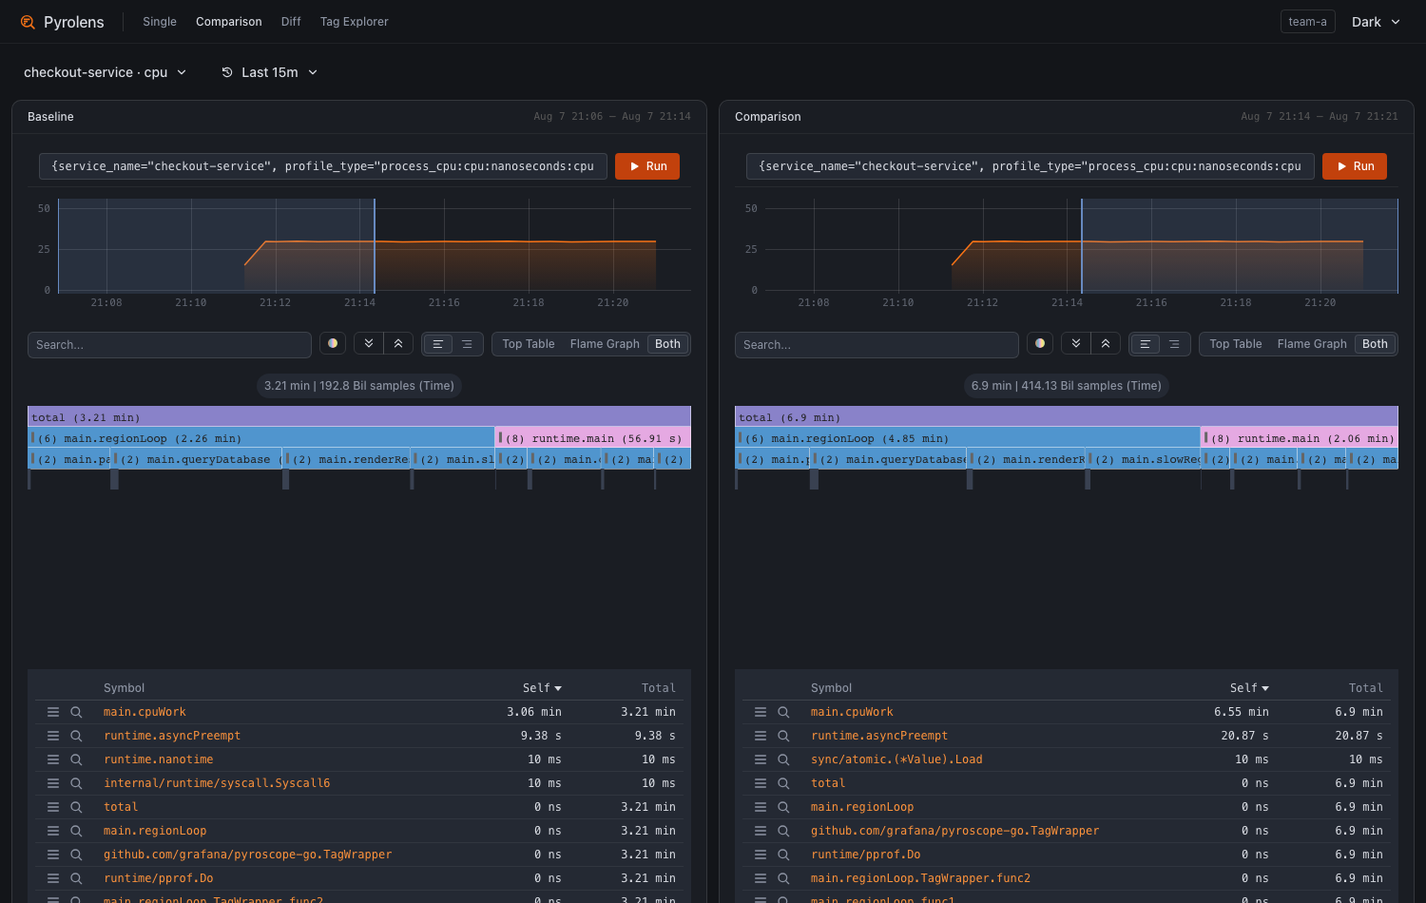
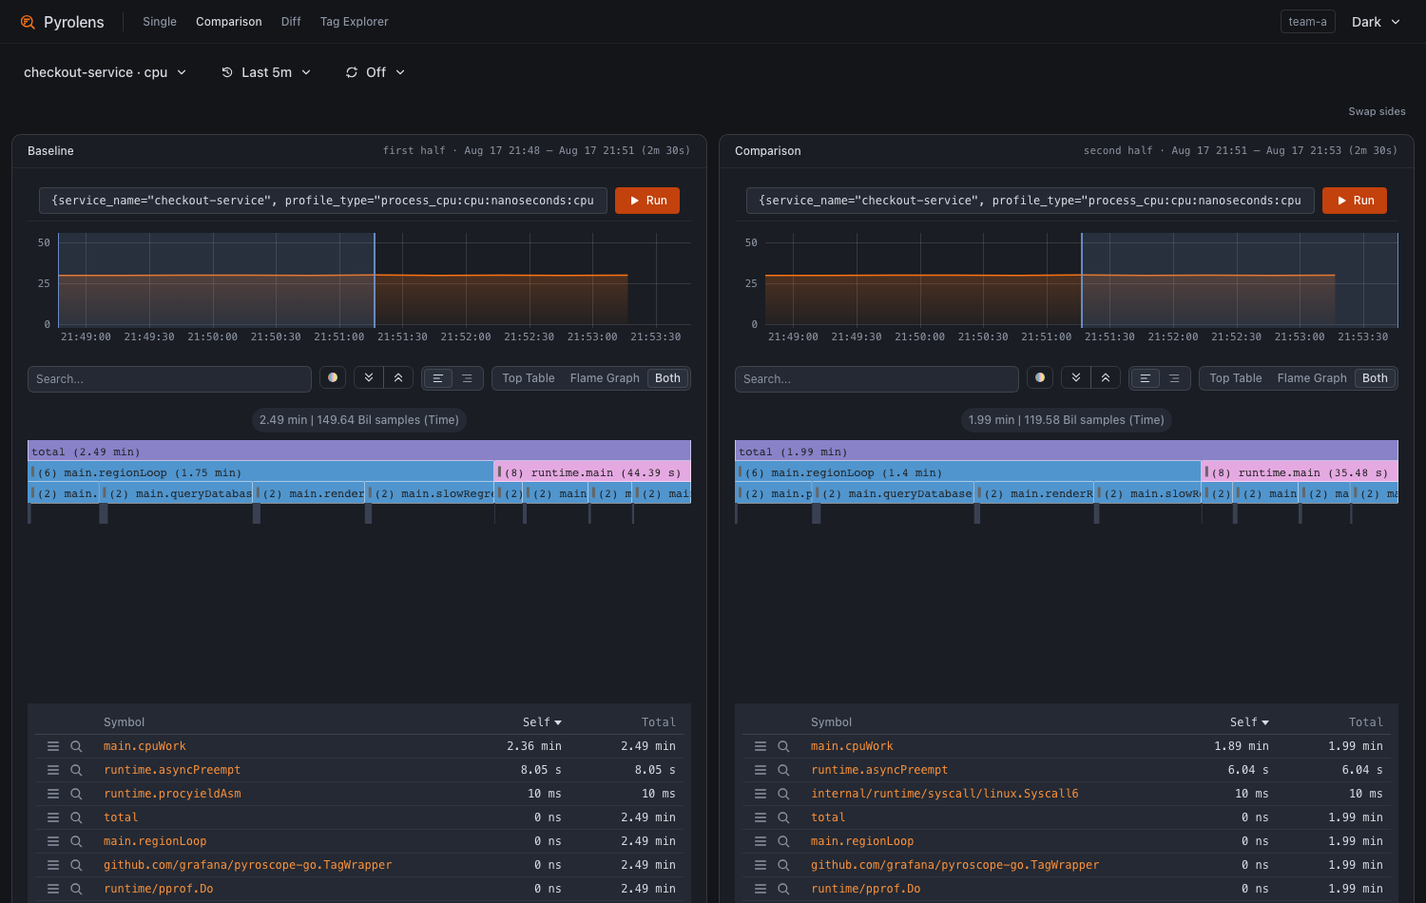
README: rewrite for users, refresh every screenshot
The README had accumulated design rationale that belongs in AGENTS.md — a
page-long treatment of the auth flags' precedence rules, the header
allowlist explained twice (Go http-client trivia included), the release
pipeline's draft-versus-OCI attestation timing. A user wants to know what
the tool does, how to run it, how to configure it, and how to share what
they see. Rewritten along that line: intro and views, quick start, one
configuration section (flags table, a tightened auth recipe, tenant
control, three security bullets), sharing (URL params, the tenant-switch
reset, keyboard shortcuts as a table), development, supply chain cut to
the verify commands, license.

Every surviving claim was fact-checked against today's code by an
independent review pass, which caught one real inaccuracy carried over
from the OLD text — the refresh picker only requires the range to END at
"now" (a pinned absolute start still auto-refreshes; the code comments
document that requiring a relative start was a removed bug) — plus an
overstatement (the proxy forwards six named RPCs, not a prefix). Both
fixed, and two operational facts the trim had dropped are restored: the
allowlist's empty-probe passthrough, and t c's legacy copy fallback on
insecure contexts.

Screenshots retaken against the current UI from the dev environment. The
Diff shot now uses one-minute windows aligned to the loadgen's per-minute
slowRegression alternation, so the injected regression actually shows as
[…]

diff --git a/README.md b/README.md
@@ -10,10 +10,8 @@ self-contained binary / Docker image.
 
 ![Single view](docs/screenshots/single-dark.png)
 
-**Works with Pyroscope v1 (tested: v1.21.1) and v2 (tested: v2.2.1).** The UI
-only speaks the `querier.v1.QuerierService` API, which both major versions
-serve, in both single-tenant and multi-tenant (`-auth.multitenancy-enabled`)
-setups.
+**Works with Pyroscope v1 (tested: v1.21.1) and v2 (tested: v2.2.1)**, in
+both single-tenant and multi-tenant (`-auth.multitenancy-enabled`) setups.
 
 Pyroscope 2.0 replaced its embedded UI with a minimal viewer and moved the
 full analysis experience into Grafana (Profiles Drilldown). This project
@@ -21,28 +19,24 @@ brings the classic workflow back, plus a few things the old UI never had:
 
 - **Everything is in the URL.** Tenant, query, time ranges, comparison
   selections, group-by label — copy the address bar and a teammate sees the
-  exact same screen. (The classic UI kept the tenant out of the URL, which
-  made sharing queries in multi-tenant setups painful.)
-- **First-class multi-tenancy.** The tenant is a `tenant` URL param sent as
-  `X-Scope-OrgID`; switch tenants from the nav bar. No per-tenant data
-  sources to manage.
+  exact same screen.
+- **First-class multi-tenancy.** Switch tenants from the nav bar; the tenant
+  rides along in shared links. No per-tenant data sources to manage.
 - **Comparison view** colors frames by package-name hash, so the same
   function has the same color in both panes. **Diff view** shows the classic
   green/red differential flame graph (color-blind palette available).
-- **One-click baselines.** The Single view's flamegraph panel has "Compare
-  vs previous" / "Diff vs previous" buttons that jump straight into
-  Comparison/Diff with an equal-duration window immediately before the
-  current range already filled in. Comparison and Diff both have a "Swap
-  sides" button to flip which window is the baseline.
-- **Pane windows are never a guess.** Each Comparison/Diff pane's header
-  shows the time window it actually resolved to, marked "first half" /
-  "second half" while it's still the implicit default; brushing or
-  deep-linking a window adds a "Reset window" button back to that default.
+- **One-click baselines.** "Compare vs previous" / "Diff vs previous" jump
+  from Single straight into Comparison/Diff with an equal-duration window
+  immediately before the current range already filled in; "Swap sides" flips
+  which window is the baseline.
+- **Pane windows are never a guess.** Each Comparison/Diff pane header shows
+  the window it actually resolved to, and offers "Reset window" once you've
+  brushed away from the default.
 
 ## The views
 
-**Diff** — what got slower between two windows, ranked. Here an extra
-`slowRegression` frame shows up as `+33.57%`.
+**Diff** — what got slower between two windows, ranked. Here the injected
+`slowRegression` frame jumps out at `+1023%`, red in the flame graph.
 
 ![Diff view](docs/screenshots/diff-dark.png)
 
@@ -73,77 +67,46 @@ PYROSCOPE_URL=http://pyroscope.example:4040 make run
 ```
 
 The binary and the image are the same thing: one self-contained server with
-the UI embedded, no runtime dependencies.
-
-Flags / env of the server binary:
-
-| Flag                        | Env                       | Default                 |                         |
-| --------------------------- | ------------------------- | ------------------------ | ----------------------- |
-| `-listen`                   | `LISTEN`                  | `:4041`                 | address to listen on    |
-| `-pyroscope-url`            | `PYROSCOPE_URL`           | `http://localhost:4040` | Pyroscope server to use |
-| `-pyroscope-username`       | `PYROSCOPE_USERNAME`      | —                        | basic auth username for the Pyroscope server |
-| `-pyroscope-password`       | `PYROSCOPE_PASSWORD`      | —                        | basic auth password for the Pyroscope server |
-| `-pyroscope-password-file`  | `PYROSCOPE_PASSWORD_FILE` | —                        | path to a file holding the basic auth password (for a mounted secret); mutually exclusive with `-pyroscope-password` |
-| `-pyroscope-tenant-id`      | `PYROSCOPE_TENANT_ID`     | —                        | pin the outbound tenant to this ID on every request, overriding whatever the visitor sent; mutually exclusive with `-allowed-tenants` |
-| `-allowed-tenants`          | `ALLOWED_TENANTS`         | —                        | comma-separated tenant IDs to allow; a non-empty tenant outside this list is rejected with 403 before reaching Pyroscope; mutually exclusive with `-pyroscope-tenant-id` |
-| `-log-requests`             | `LOG_REQUESTS`            | `false`                  | log one line per request (method, path, status, duration, bytes, and the tenant header for querier calls) |
-| `-version`                  | —                         | —                        | print the version and exit |
-
-The server embeds the built SPA and reverse-proxies
-`/querier.v1.QuerierService/*` to the Pyroscope server, so the browser talks
-to a single origin and your Pyroscope server never needs CORS or direct
-exposure. That one prefix is the whole query API the UI uses; nothing else is
-forwarded, so Pyroscope's ingest and admin endpoints are not reachable
+the UI embedded. It reverse-proxies only the exact querier RPCs the UI
+calls (all under `/querier.v1.QuerierService/`) to your Pyroscope server,
+so the browser talks to a single origin — Pyroscope needs no CORS and no
+direct exposure, and its ingest and admin endpoints are not reachable
 through pyrolens.
 
-The embedded assets are served gzip-compressed whenever the browser accepts
-it — no flag needed, it's automatic.
+## Configuration
+
+| Flag                       | Env                       | Default                 |                                                                                                                      |
+| -------------------------- | ------------------------- | ----------------------- | -------------------------------------------------------------------------------------------------------------------- |
+| `-listen`                  | `LISTEN`                  | `:4041`                 | address to listen on                                                                                                  |
+| `-pyroscope-url`           | `PYROSCOPE_URL`           | `http://localhost:4040` | Pyroscope server to use                                                                                               |
+| `-pyroscope-username`      | `PYROSCOPE_USERNAME`      | —                       | basic auth username for the Pyroscope server                                                                          |
+| `-pyroscope-password`      | `PYROSCOPE_PASSWORD`      | —                       | basic auth password for the Pyroscope server                                                                          |
+| `-pyroscope-password-file` | `PYROSCOPE_PASSWORD_FILE` | —                       | path to a file holding the basic auth password (for a mounted secret); mutually exclusive with `-pyroscope-password`  |
+| `-pyroscope-tenant-id`     | `PYROSCOPE_TENANT_ID`     | —                       | pin every outbound request to this tenant, overriding whatever the visitor sent; mutually exclusive with `-allowed-tenants` |
+| `-allowed-tenants`         | `ALLOWED_TENANTS`         | —                       | comma-separated tenant IDs to allow; any other non-empty tenant is rejected with 403; mutually exclusive with `-pyroscope-tenant-id` |
+| `-log-requests`            | `LOG_REQUESTS`            | `false`                 | log one line per request (method, path, status, duration, bytes, and the tenant for querier calls)                    |
+| `-version`                 | —                         | —                       | print the version and exit                                                                                            |
 
 ### Authenticated upstreams (Grafana Cloud)
 
 If the Pyroscope behind pyrolens requires basic auth — Grafana Cloud's
 hosted Pyroscope does, with the stack ID as the username and an API token as
-the password — give it credentials one of two ways:
+the password — give it credentials either embedded in the URL
+(`https://user:pass@host`) or via the `-pyroscope-username` /
+`-pyroscope-password` / `-pyroscope-password-file` flags. Flags win over the
+URL's userinfo entirely, username and password must come from the same
+source, and half-configured auth refuses to start rather than silently
+sending unauthenticated requests.
 
-- Embed them in `-pyroscope-url` (`https://user:pass@host`), or
-- Set `-pyroscope-username` / `-pyroscope-password` (or
-  `-pyroscope-password-file` for a mounted secret) explicitly.
-
-**The username and password must come from the same source.** Setting any
-of `-pyroscope-username`/`-pyroscope-password`/`-pyroscope-password-file`
-makes those flags win over the URL's userinfo *entirely* — pyrolens does not
-combine a flag-sourced credential with a URL-sourced one (a URL username
-plus a file-sourced password, say). `-pyroscope-password` and
-`-pyroscope-password-file` are mutually exclusive, an empty password file is
-rejected by name, and a username set without a password (or vice versa, from
-whichever source is in play) refuses to start — half-configured auth would
-otherwise send unauthenticated requests to the upstream with nothing to say
-so. A username may not contain `:`, which is ambiguous with the
-username/password separator.
-
-**Use `https://` for an authenticated upstream.** Basic auth sends the
-credential in every request; over plain `http://` to anything other than
-localhost, that is the token on the wire in the clear. pyrolens warns loudly
-at startup if it detects this (it does not refuse to start, since testing
-against a local, non-TLS Pyroscope with auth turned on is legitimate), but
-the credential should not cross a real network unencrypted.
-
-**The proxy forwards an explicit header allowlist, not whatever arrived.**
-Outbound, only `Content-Type`, `X-Scope-OrgID` and `Accept-Encoding` are
-copied from the visitor's request, plus `Authorization` set by pyrolens
-itself when upstream credentials are configured — never the visitor's own
-(one exception outside pyrolens's control: Go's own HTTP client re-adds a
-fixed `Te: trailers`, with no visitor-controlled data, when the inbound
-request happened to carry one — a browser's `fetch` cannot). A visitor's
-cookies (a fronting proxy's own SSO session, say), browser fingerprint
-headers and IP address (`X-Forwarded-For`) never reach Pyroscope. See
-Security below for the same allowlisting in the other direction.
+Use `https://` — basic auth sends the credential with every request, and
+pyrolens warns loudly at startup if it would cross a real network in the
+clear.
 
 Grafana Cloud recipe, with a token file mounted at `/etc/pyrolens/token`.
 Find `<cloud-profiles-url>` and `<stack-id>` on the stack's "Pyroscope"
-connection details page in Grafana Cloud, and generate the token as a Cloud
-Access Policy token scoped to `profiles:read` — a write-only token is
-rejected by Pyroscope with 403:
+connection details page, and generate the token as a Cloud Access Policy
+token scoped to `profiles:read` (a write-only token is rejected by Pyroscope
+with 403):
 
 ```sh
 PYROSCOPE_URL=https://<cloud-profiles-url> \
@@ -152,95 +115,81 @@ PYROSCOPE_PASSWORD_FILE=/etc/pyrolens/token \
   ./pyrolens
 ```
 
-This only authenticates pyrolens to Pyroscope. It does not authenticate
-visitors to pyrolens — see Security below.
+This authenticates pyrolens to Pyroscope — not visitors to pyrolens; see
+Security below.
 
 ### Tenant control
 
-By default, the tenant switcher is not an isolation boundary — see Security
-below. `-pyroscope-tenant-id` and `-allowed-tenants` are an *optional*
-boundary for the two shapes that default deliberately isn't, and they are
-mutually exclusive (setting both refuses to start):
+Two optional, mutually exclusive ways to bound which tenants an instance can
+reach:
 
-- **`-pyroscope-tenant-id` (pin)** — for one Pyroscope tenant per pyrolens
-  instance. Every outbound request's `X-Scope-OrgID` is overwritten to this
-  exact value, including the UI's own deliberately-empty multitenancy probe,
-  so a visitor's `tenant` URL param can no longer choose a different tenant
-  no matter what it says.
-- **`-allowed-tenants` (allowlist)** — for one pyrolens instance shared across
-  several tenants, confined to a known subset. A request whose tenant is
-  non-empty and not in the comma-separated list is rejected with 403 before
-  it reaches Pyroscope; an absent or empty tenant (the multitenancy probe)
-  always passes through untouched.
+- **`-pyroscope-tenant-id` (pin)** — one Pyroscope tenant per pyrolens
+  instance. Every outbound request is forced to this tenant; a visitor's
+  `tenant` URL param cannot choose a different one.
+- **`-allowed-tenants` (allowlist)** — one shared instance confined to a
+  known subset. Requests for any other non-empty tenant are rejected with
+  403 before reaching Pyroscope; a request with no tenant (the UI's own
+  multitenancy probe) always passes through untouched.
 
-Neither authenticates the visitor — they constrain which tenant a request can
-reach, not who is allowed to send one. Put pyrolens behind whatever
-authenticates people, same as always; these flags are for bounding blast
-radius once they're in, and compose with upstream basic auth however a
-deployment needs (a pinned or allowlisted single-tenant Grafana Cloud stack,
-for instance).
+Neither authenticates the visitor — they bound blast radius, not identity.
 
 ### Security
 
-**Pyrolens performs no authentication or authorization.** Anyone who can
-reach it can query everything the Pyroscope server behind it will answer, so
-put it somewhere only your team can reach and front it with whatever
-authenticates your other internal tools.
+- **Pyrolens performs no authentication or authorization.** Anyone who can
+  reach it can query everything the Pyroscope behind it will answer. Put it
+  somewhere only your team can reach, fronted by whatever authenticates your
+  other internal tools.
+- **The tenant switcher is not an isolation boundary by default.** The
+  tenant is a URL parameter; without `-pyroscope-tenant-id` or
+  `-allowed-tenants`, anyone can read any tenant by editing the address bar.
+  Treat it as a convenience for people already allowed to see every tenant.
+- **Headers cross the proxy through an explicit allowlist, both
+  directions.** A visitor's cookies, `Authorization` and IP address never
+  reach Pyroscope; an upstream's `Set-Cookie` never reaches the browser.
 
-**The tenant switcher is not an isolation boundary, by default.** The tenant
-is a URL parameter that becomes the `X-Scope-OrgID` header, so without
-further configuration a user can read any tenant by editing the address bar.
-Treat it as a convenience for people who are already allowed to see every
-tenant, not as a permission check — unless `-pyroscope-tenant-id` or
-`-allowed-tenants` (see Tenant control above) is configured to bound it.
-
-**Headers are proxied through an explicit allowlist, in both directions.**
-The proxy does not transparently forward whatever headers arrived: a
-visitor's cookies (a fronting SSO's session cookie, say), `Authorization`,
-and IP address never reach the Pyroscope upstream, and an upstream (or a
-load balancer in front of it) setting `Set-Cookie` never reaches the
-browser. Only what pyrolens's own client actually needs crosses either
-direction.
-
-Only that one path prefix is proxied; anything else is served from the
-embedded UI, and a proxied request has to carry a canonical path.
-
-## URL parameters
+## Sharing and URL parameters
 
 All state is carried in query parameters; every view is shareable.
 
-| Param                                              | Meaning                                                              |
-| -------------------------------------------------- | -------------------------------------------------------------------- |
-| `tenant`                                           | tenant ID, sent as `X-Scope-OrgID` (multi-tenant Pyroscope only)     |
-| `query`                                            | label selector incl. `profile_type`, e.g. `{service_name="x", ...}`  |
-| `from` / `until`                                   | main time range — `now-1h`-style relative or unix-ms absolute        |
-| `refresh`                                          | auto-refresh interval: `10s` \| `30s` \| `1m` \| `5m`; anything else means off |
-| `leftQuery` / `leftFrom` / `leftUntil` (+ `right…`) | Comparison & Diff pane selections; default to `query` / range halves |
-| `groupBy`                                          | Tag Explorer grouping label                                          |
-| `sort`                                             | Tag Explorer breakdown table sort: `avg` or `max` (default: Share/sum) |
-| `fgSearch`                                         | flame graph search text; shared across Single, Comparison and Diff   |
-| `fgSandwich`                                       | flame graph sandwich-view selection (function label); shared across Single, Comparison and Diff |
-| `maxNodes`                                         | positive integer (1–1,000,000) capping the flamegraph node count per query; server default when absent or invalid |
+| Param                                               | Meaning                                                                                         |
+| --------------------------------------------------- | ----------------------------------------------------------------------------------------------- |
+| `tenant`                                            | tenant ID, sent as `X-Scope-OrgID` (multi-tenant Pyroscope only)                                |
+| `query`                                             | label selector incl. `profile_type`, e.g. `{service_name="x", ...}`                             |
+| `from` / `until`                                    | main time range — `now-1h`-style relative or unix-ms absolute                                   |
+| `refresh`                                           | auto-refresh interval: `10s` \| `30s` \| `1m` \| `5m`; anything else means off                  |
+| `leftQuery` / `leftFrom` / `leftUntil` (+ `right…`) | Comparison & Diff pane selections; default to `query` / range halves                            |
+| `groupBy`                                           | Tag Explorer grouping label                                                                     |
+| `sort`                                              | Tag Explorer breakdown table sort: `avg` or `max` (default: Share/sum)                          |
+| `fgSearch`                                          | flame graph search text; shared across Single, Comparison and Diff                              |
+| `fgSandwich`                                        | flame graph sandwich-view selection (function label); shared across Single, Comparison and Diff |
+| `maxNodes`                                          | positive integer (1–1,000,000) capping the flamegraph node count per query; server default when absent or invalid — a useful dial when heavy profiles are slow |
 
 Views: `/` (Single), `/comparison`, `/diff`, `/explore` (Tag Explorer).
 
-Keyboard shortcuts: `y` or `t a` switches the time range to absolute so the
-URL can be shared as-is; `t c` copies it (Grafana's own clipboard format, so
-it pastes in either tool) and `t v` pastes it back. `t z` zooms out 2× around
-the center of the current range; `t ArrowLeft`/`t ArrowRight` shift the
-window back/forward by half its span. Like `t a`, `t z` and the arrow
-shortcuts always write an absolute range, even starting from a relative one.
-`t ArrowRight` clamps to the current time — it will not shift past "now", and
-does nothing once the window already reaches it. `t v` needs a secure context
-(HTTPS or localhost) to read the clipboard; `t c` has a legacy fallback for an
-insecure one, the same one `copy absolute link` uses, which can still fail
-depending on the browser. Grafana's rounded relative ranges (`now/d` and the
-like) are not supported in either direction: pyrolens URLs cannot express
-them, so pasting one reports "Paste failed".
+Switching tenant from the nav bar starts fresh at `/?tenant=<new>`; the
+browser's Back button restores the previous tenant's screen intact.
 
-The refresh picker next to the time range control repeats the current view on
-the chosen interval — only while the range is relative and ending at "now",
-and paused whenever the tab is in the background.
+The refresh picker next to the time range control repeats the current view
+on the chosen interval — only while the range ends at "now", and paused
+whenever the tab is in the background.
+
+### Keyboard shortcuts
+
+| Keys                            | Action                                                                                        |
+| ------------------------------- | --------------------------------------------------------------------------------------------- |
+| `y` or `t a`                    | switch the time range to absolute, so the URL can be shared as-is                             |
+| `t c`                           | copy the time range (Grafana's clipboard format — pastes into either tool)                    |
+| `t v`                           | paste a time range from the clipboard                                                          |
+| `t z`                           | zoom out 2× around the center of the current range                                            |
+| `t ArrowLeft` / `t ArrowRight`  | shift the window back / forward by half its span (`ArrowRight` never shifts past "now")       |
+
+`t a`, `t z` and the arrow shortcuts always write an absolute range, even
+starting from a relative one. `t v` needs a secure context (HTTPS or
+localhost) to read the clipboard; `t c` has a legacy fallback for insecure
+contexts, so on a plain-HTTP deployment copy may work while paste will
+not. Grafana's rounded relative ranges
+(`now/d` and the like) are not supported in either direction: pyrolens URLs
+cannot express them, so pasting one reports "Paste failed".
 
 ## Development
 
@@ -263,24 +212,16 @@ docker run -p 4040:4040 grafana/pyroscope
 docker run -p 4040:4040 grafana/pyroscope -auth.multitenancy-enabled
 ```
 
+`dev/` has a docker-compose setup that also feeds it realistic profiles —
+see `dev/README.md`.
+
 ## Supply chain
 
-Container base images (`Dockerfile`, `Dockerfile.release`) are pinned to a
-digest alongside their tag (`node:24-alpine@sha256:...`), so a rebuild of the
-same commit can't silently pick up different base-image bytes; Renovate
-(`docker:pinDigests`) keeps those digests current.
-
-Every release (binaries and the `ghcr.io/be-hase/pyrolens` image) ships with
-a Syft-generated SBOM for each archive and a
-[build provenance attestation](https://github.com/actions/attest-build-provenance)
-for both the archives and the image, produced in CI from the tag build. The
-guarantee differs slightly by artifact, because only one of them can be held
-back until it's attested: the GitHub Release is created as a draft and only
-published once the archives (and their SBOMs) are attested, so nothing there
-is downloadable before its attestation exists; the image is pushed to GHCR
-as part of the same GoReleaser run and is public moments before its own
-attestation lands, since there is no equivalent "draft" state for an OCI
-registry push. Verify either with the `gh` CLI:
+Container base images are digest-pinned. Every release ships a
+Syft-generated SBOM per archive and
+[build provenance attestations](https://github.com/actions/attest-build-provenance)
+for the archives and the `ghcr.io/be-hase/pyrolens` image, produced in CI
+from the tag build. Verify with the `gh` CLI:
 
 ```sh
 gh attestation verify oci://ghcr.io/be-hase/pyrolens:<tag> --owner be-hase
@@ -293,4 +234,4 @@ Pyrolens is licensed **Apache-2.0** (see `LICENSE`). Bundled third-party
 code retains its own license file alongside the code, and
 `THIRD-PARTY-NOTICES.md` collects every bundled component's copyright and
 permission notice — it ships in the release archives and at `/licenses` in
-the container image, since the minified UI bundle strips license comments.
+the container image.
